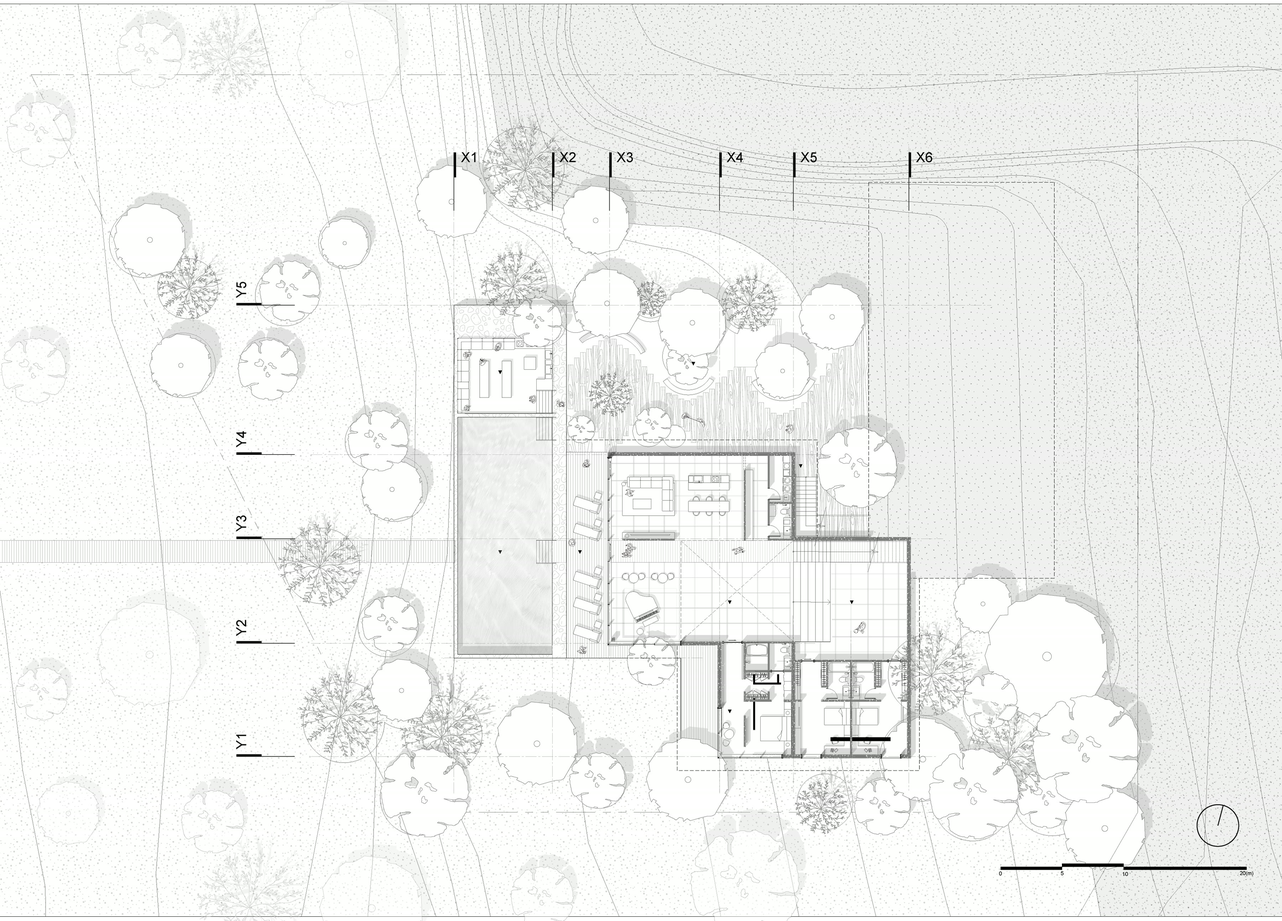
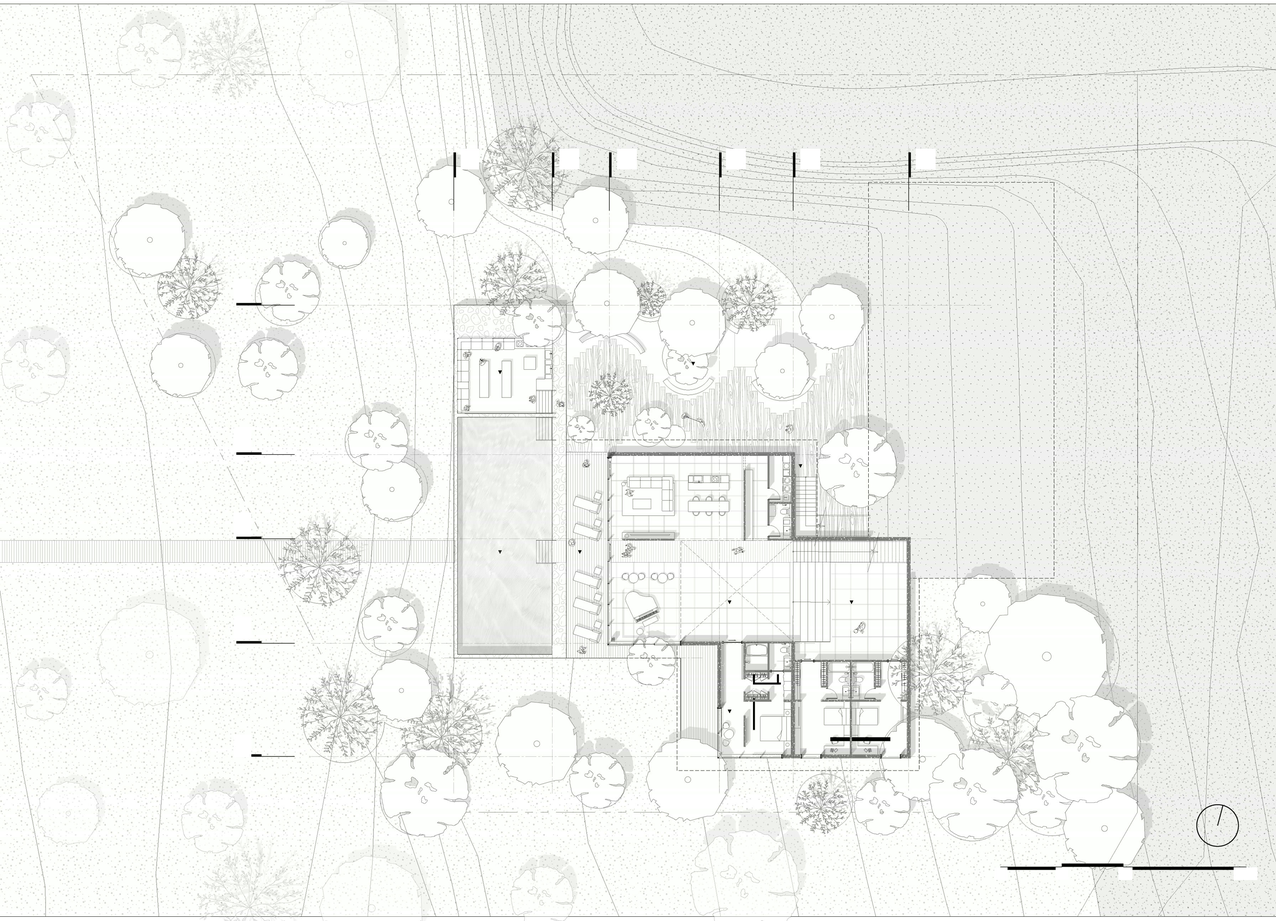
핀 #137·#138 (La Junita): 입구층·아래층 평면을 같은 축척·같은 자리로 맞춰(위층 16px 어긋남 보정) 스크롤 단계 시뮬레이션 하나로, 그림 속 그리드 이름·축척 숫자는 지우고 그리드 이름·치수(mm, 축척 막대로 잰 값)·프로그램 번호를 사이트 글자로, 단계마다 설명·프로그램 목록

diff --git a/assets/js/data.js b/assets/js/data.js
@@ -1529,8 +1529,8 @@ const SITE = {
       "A home is more than a shelter; it is where life unfolds and memories are made. Designed for a family of four while welcoming guests with warmth and privacy, the house steps down a slope toward the river — open to natural light, with seamless passages between indoors and outdoors.",
     sections: [
       { heading: "Masses on the Slope", text: "The masses were first laid along an axis that flows down the slope. Those running east to west were shifted south so none overlaps and every room gets daylight, and each mass along the slope opens to a view of the river. The land left over became a courtyard, keeping as many of the existing trees as possible.", images: [{ src: "assets/img/la-junita/site-plan.jpg", caption: "Site plan", r: 1.42 }] },
-      { heading: "Entrance Level", text: "The main entrance sits on the east side, reached by car and on foot. From the door the living room opens to the river, while a corridor leads to two guest rooms with terraces — the guest wing stays apart, so the family keeps its privacy.", images: [{ src: "assets/img/la-junita/plan-upper.jpg", caption: "Entrance level plan", r: 1.391, notes: [["01", "Guest lounge", "Living room at the door, facing the river"], ["02", "Open lounge", "Double-height void over the lower lounge"], ["03", "Guest rooms", "Two rooms with their own terraces"], ["04", "Multiroom · bedrooms", "Children's rooms above the stand"], ["05", "Parking", "Vehicle and pedestrian access from Los Dorados Avenue"]] }] },
-      { heading: "Lower Level", text: "A few steps down, a second living room connects to the two children's rooms and a bathroom. An open void with a stand and stair brings the family together, and a loft above the master bedroom adds variety. The living room has glass on three sides for light and river views; large openings help passive heating, and a partition wall hides the utilities. At the lowest point it is the house's final destination.", images: [{ src: "assets/img/la-junita/plan-lower.jpg", caption: "Lower level plan", r: 1.391, notes: [["01", "Living room", "Glass on three sides toward the river"], ["02", "Music hall", "Beside the open lounge"], ["03", "Master bedroom", "With a loft above"], ["04", "Bedrooms", "Two children's rooms"], ["05", "Infinity pool", "Extending from the living room"], ["06", "Outdoor lounge · garden", "Sunken lounge at the pool–garden junction"]] }] },
+      // 핀 #137·#138: 두 층 평면을 같은 축척·같은 자리로 겹쳐 스크롤로 넘김 — 그리드 이름·치수(축척 막대로 잰 값, mm)·프로그램 번호는 사이트 글자
+      { heading: "Two Levels on One Grid", big: true, text: "The entrance level and the lower level drawn at the same scale and laid on the same spot — scroll down a level. The grid lines run through both floors; dimensions are in millimetres between grid lines.", images: [], seq: {"kind":"frames","fade":true,"below":true,"r":1.385,"steps":[{"src":"assets/img/la-junita/plan-upper.jpg","t":"Entrance level","s":"by car and on foot from Los Dorados Avenue","d":"The main entrance sits on the east side. From the door the guest lounge opens to the river, while a corridor leads to two guest rooms with terraces — the guest wing stays apart, so the family keeps its privacy.","k":[["01 Guest lounge","living room at the door, facing the river"],["02 Open lounge","double-height void over the lower lounge"],["03 Guest rooms","two rooms with their own terraces"],["04 Multiroom · bedrooms","children's rooms above the stand"],["05 Parking","from Los Dorados Avenue"],["06 Living · dining","the family wing at the top of the slope"]],"tags":[[53.7,17.4,"X3′","","m"],[56.8,17.4,"X4","","m"],[62.6,17.4,"X5","","m"],[68.8,17.4,"X5′","","m"],[71.7,17.4,"X6","","m"],[80.5,17.4,"X7","","m"],[82.8,17.4,"X7′","","m"],[54.9,21,"3,300","c","m"],[59.4,21,"6,000","c","m"],[65.4,21,"6,400","c","m"],[69.9,21,"3,000","c","m"],[75.8,21,"9,200","c","m"],[81.3,21,"2,300","c","m"],[19.9,32,"Y5","","m"],[19.9,48.1,"Y4","","m"],[19.9,57.2,"Y3","","m"],[19.9,68.5,"Y2","","m"],[19.9,80.8,"Y1","","m"],[19.5,41.2,"12,000","","m"],[19.5,53.8,"6,800","","m"],[19.5,64,"8,500","","m"],[19.5,75.9,"9,200","","m"],[78.4,95.3,"0","c","m"],[83.2,95.3,"5","c","m"],[88,95.3,"10","c","m"],[97.7,95.3,"20 m","c","m"],[59.3,75.1,"01","c pt"],[58.8,64.7,"02","c pt"],[66.4,77.2,"03","c pt"],[74.4,40.3,"04","c pt"],[70.9,26.4,"05","c pt"],[74.4,54.9,"06","c pt"]]},{"src":"assets/img/la-junita/plan-lower.jpg","t":"Lower level","s":"a few steps down, the house ends at the river","d":"A second living room connects to the two children's rooms and a bathroom. An open void with a stand and stair brings the family together, and a loft above the master bedroom adds variety. Glass on three sides brings light and the river in; large openings help passive heating, and a partition wall hides the utilities.","k":[["01 Living room","glass on three sides toward the river"],["02 Music hall","beside the open lounge"],["03 Master bedroom","with a loft above"],["04 Bedrooms","two children's rooms"],["05 Infinity pool","extending from the living room"],["06 Outdoor lounge · garden","sunken where the pool meets the garden"]],"tags":[[36,17.4,"X1","","m"],[43.7,17.4,"X2","","m"],[48.1,17.4,"X3","","m"],[56.8,17.4,"X4","","m"],[62.6,17.4,"X5","","m"],[71.6,17.4,"X6","","m"],[39.5,21,"8,000","c","m"],[45.6,21,"4,600","c","m"],[52.1,21,"9,000","c","m"],[59.3,21,"6,000","c","m"],[66.8,21,"9,400","c","m"],[19.9,32,"Y5","","m"],[19.9,48.1,"Y4","","m"],[19.9,57.2,"Y3","","m"],[19.9,68.5,"Y2","","m"],[19.9,80.8,"Y1","","m"],[19.5,41.2,"12,000","","m"],[19.5,53.8,"6,800","","m"],[19.5,64,"8,500","","m"],[19.5,75.9,"9,200","","m"],[78.4,95.3,"0","c","m"],[83.2,95.3,"5","c","m"],[88,95.3,"10","c","m"],[97.7,95.3,"20 m","c","m"],[50.2,54.9,"01","c pt"],[50.2,64.3,"02","c pt"],[58.8,77.2,"03","c pt"],[66.8,76.9,"04","c pt"],[39.2,57.7,"05","c pt"],[54,40.3,"06","c pt"]]}]} },
       { heading: "Materials", text: "Stone, brick, steel, glass and wood, balanced between the modern and the natural. Stone and brick ground the house; glass lets in light and the river; steel carries the open spaces; wood brings warmth inside. Outside, the pool extends from the living room toward the river, and a sunken lounge sits where the pool meets the garden.", big: true, images: [], seq: {"kind":"lead","src":"assets/img/la-junita/axo.jpg","r":1.159,"n":8,"steps":[{"t":"The house on the slope","s":"three masses stepping down to the river"},{"t":"Roofs lifted","s":"flat roofs drawn off the walls"},{"t":"Entrance level","s":"door, guest lounge and the open void"},{"t":"Brick, glass and steel","s":"the materials that hold the rooms"},{"t":"Pool and garden","s":"the house runs out toward the river"}],"L":[["l",41.7,37,"Flat roof, gravel, steel edge fascia",1],["r",44.6,60.5,"Roof over the family wing",1],["r",58.5,60.5,"Roof over the guest wing, stepped lower",1],["l",60.2,40,"Pedestrian access from the east",2],["l",65.7,24.5,"Vehicular access and parking",2],["r",66.6,54.5,"Guest lounge",2,1],["r",68.9,59,"Open lounge, double-height void",2,1],["l",71.2,31,"Parking court",2,1],["r",73,65,"Floor-to-ceiling low-E glass, slim steel frames",3],["l",75.3,50.5,"Dark clay brick, running bond",3],["r",76.4,62,"Terrazzo and oak floors",3],["l",78.6,46,"Terraced lawn steps, native planting",4],["r",82.2,69,"Infinity pool, mosaic tile, stone coping",4],["l",86.5,57.5,"Sunken lounge where pool meets garden",4,1]]} },
       { heading: "Scenes", text: "The house from the garden and the river side, and the living spaces inside.", images: [{ src: "assets/img/la-junita/exterior-1.jpg", caption: "Exterior", r: 1.577 }, { src: "assets/img/la-junita/exterior-2.jpg", caption: "Pool and garden", r: 1.577 }, { src: "assets/img/la-junita/interior-1.jpg", caption: "Living room", r: 1.502 }, { src: "assets/img/la-junita/interior-2.jpg", caption: "Interior", r: 1.502 }], stack: true, scenes: true },
     ],
